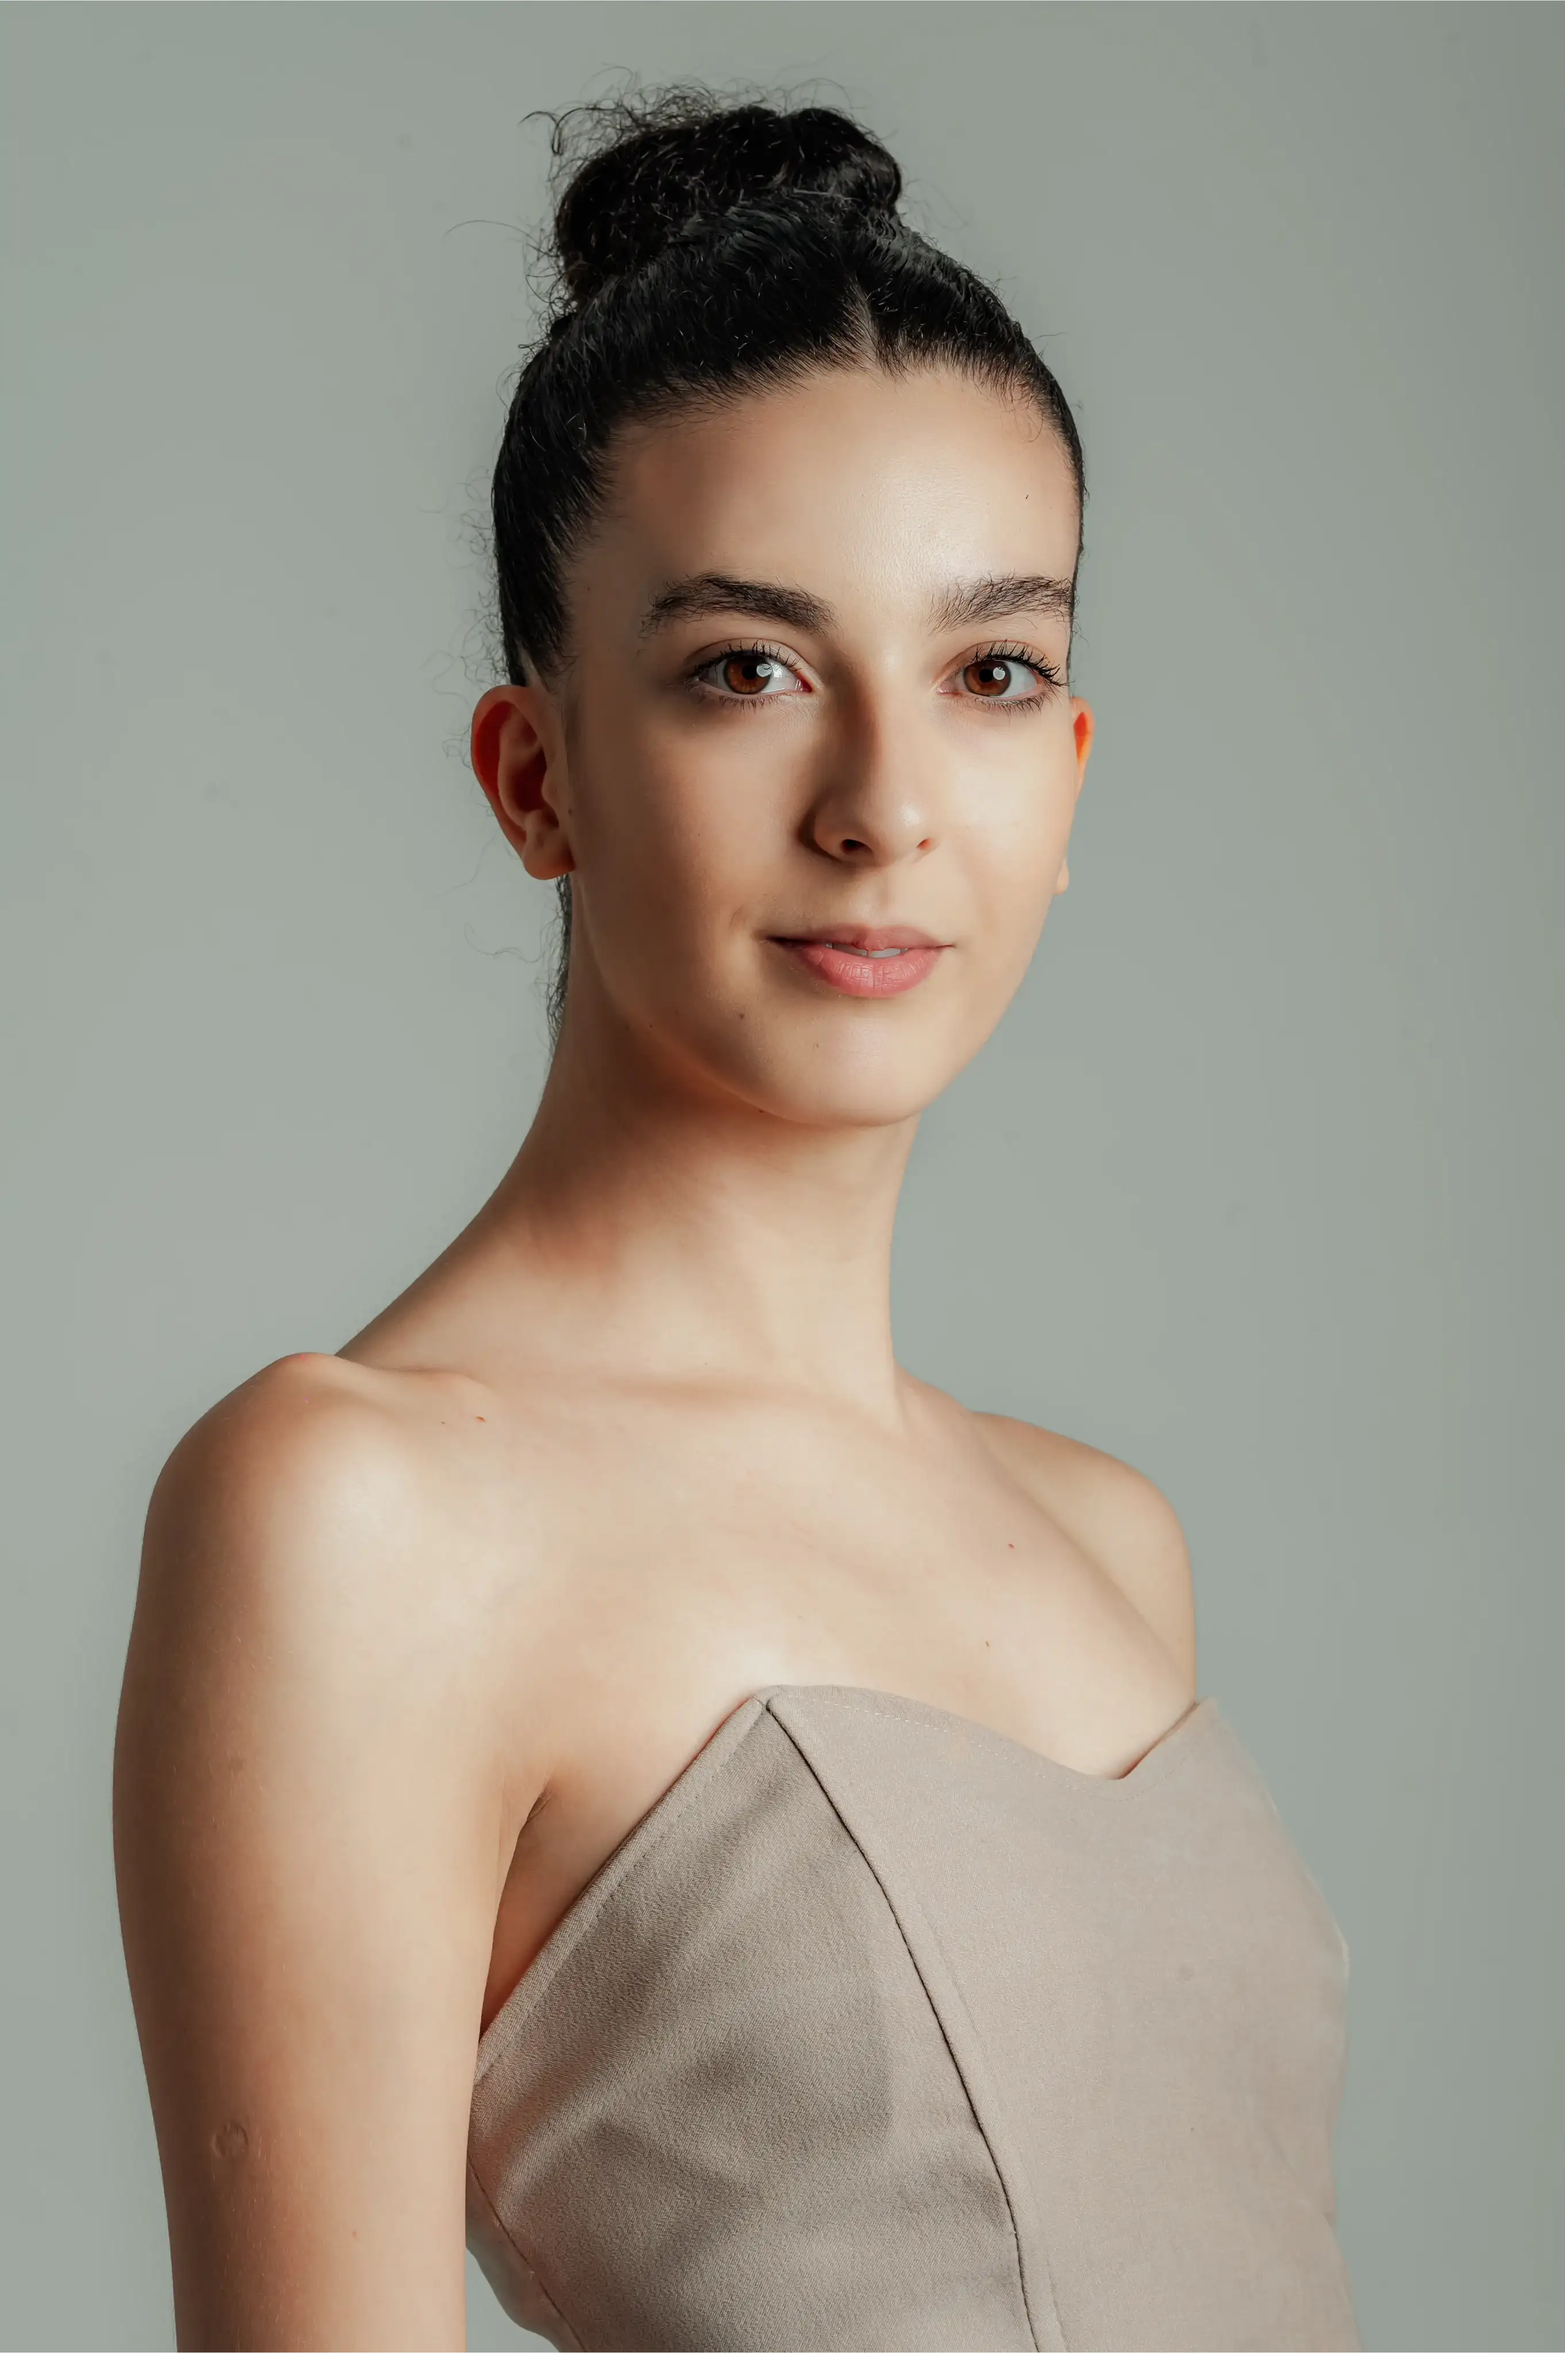
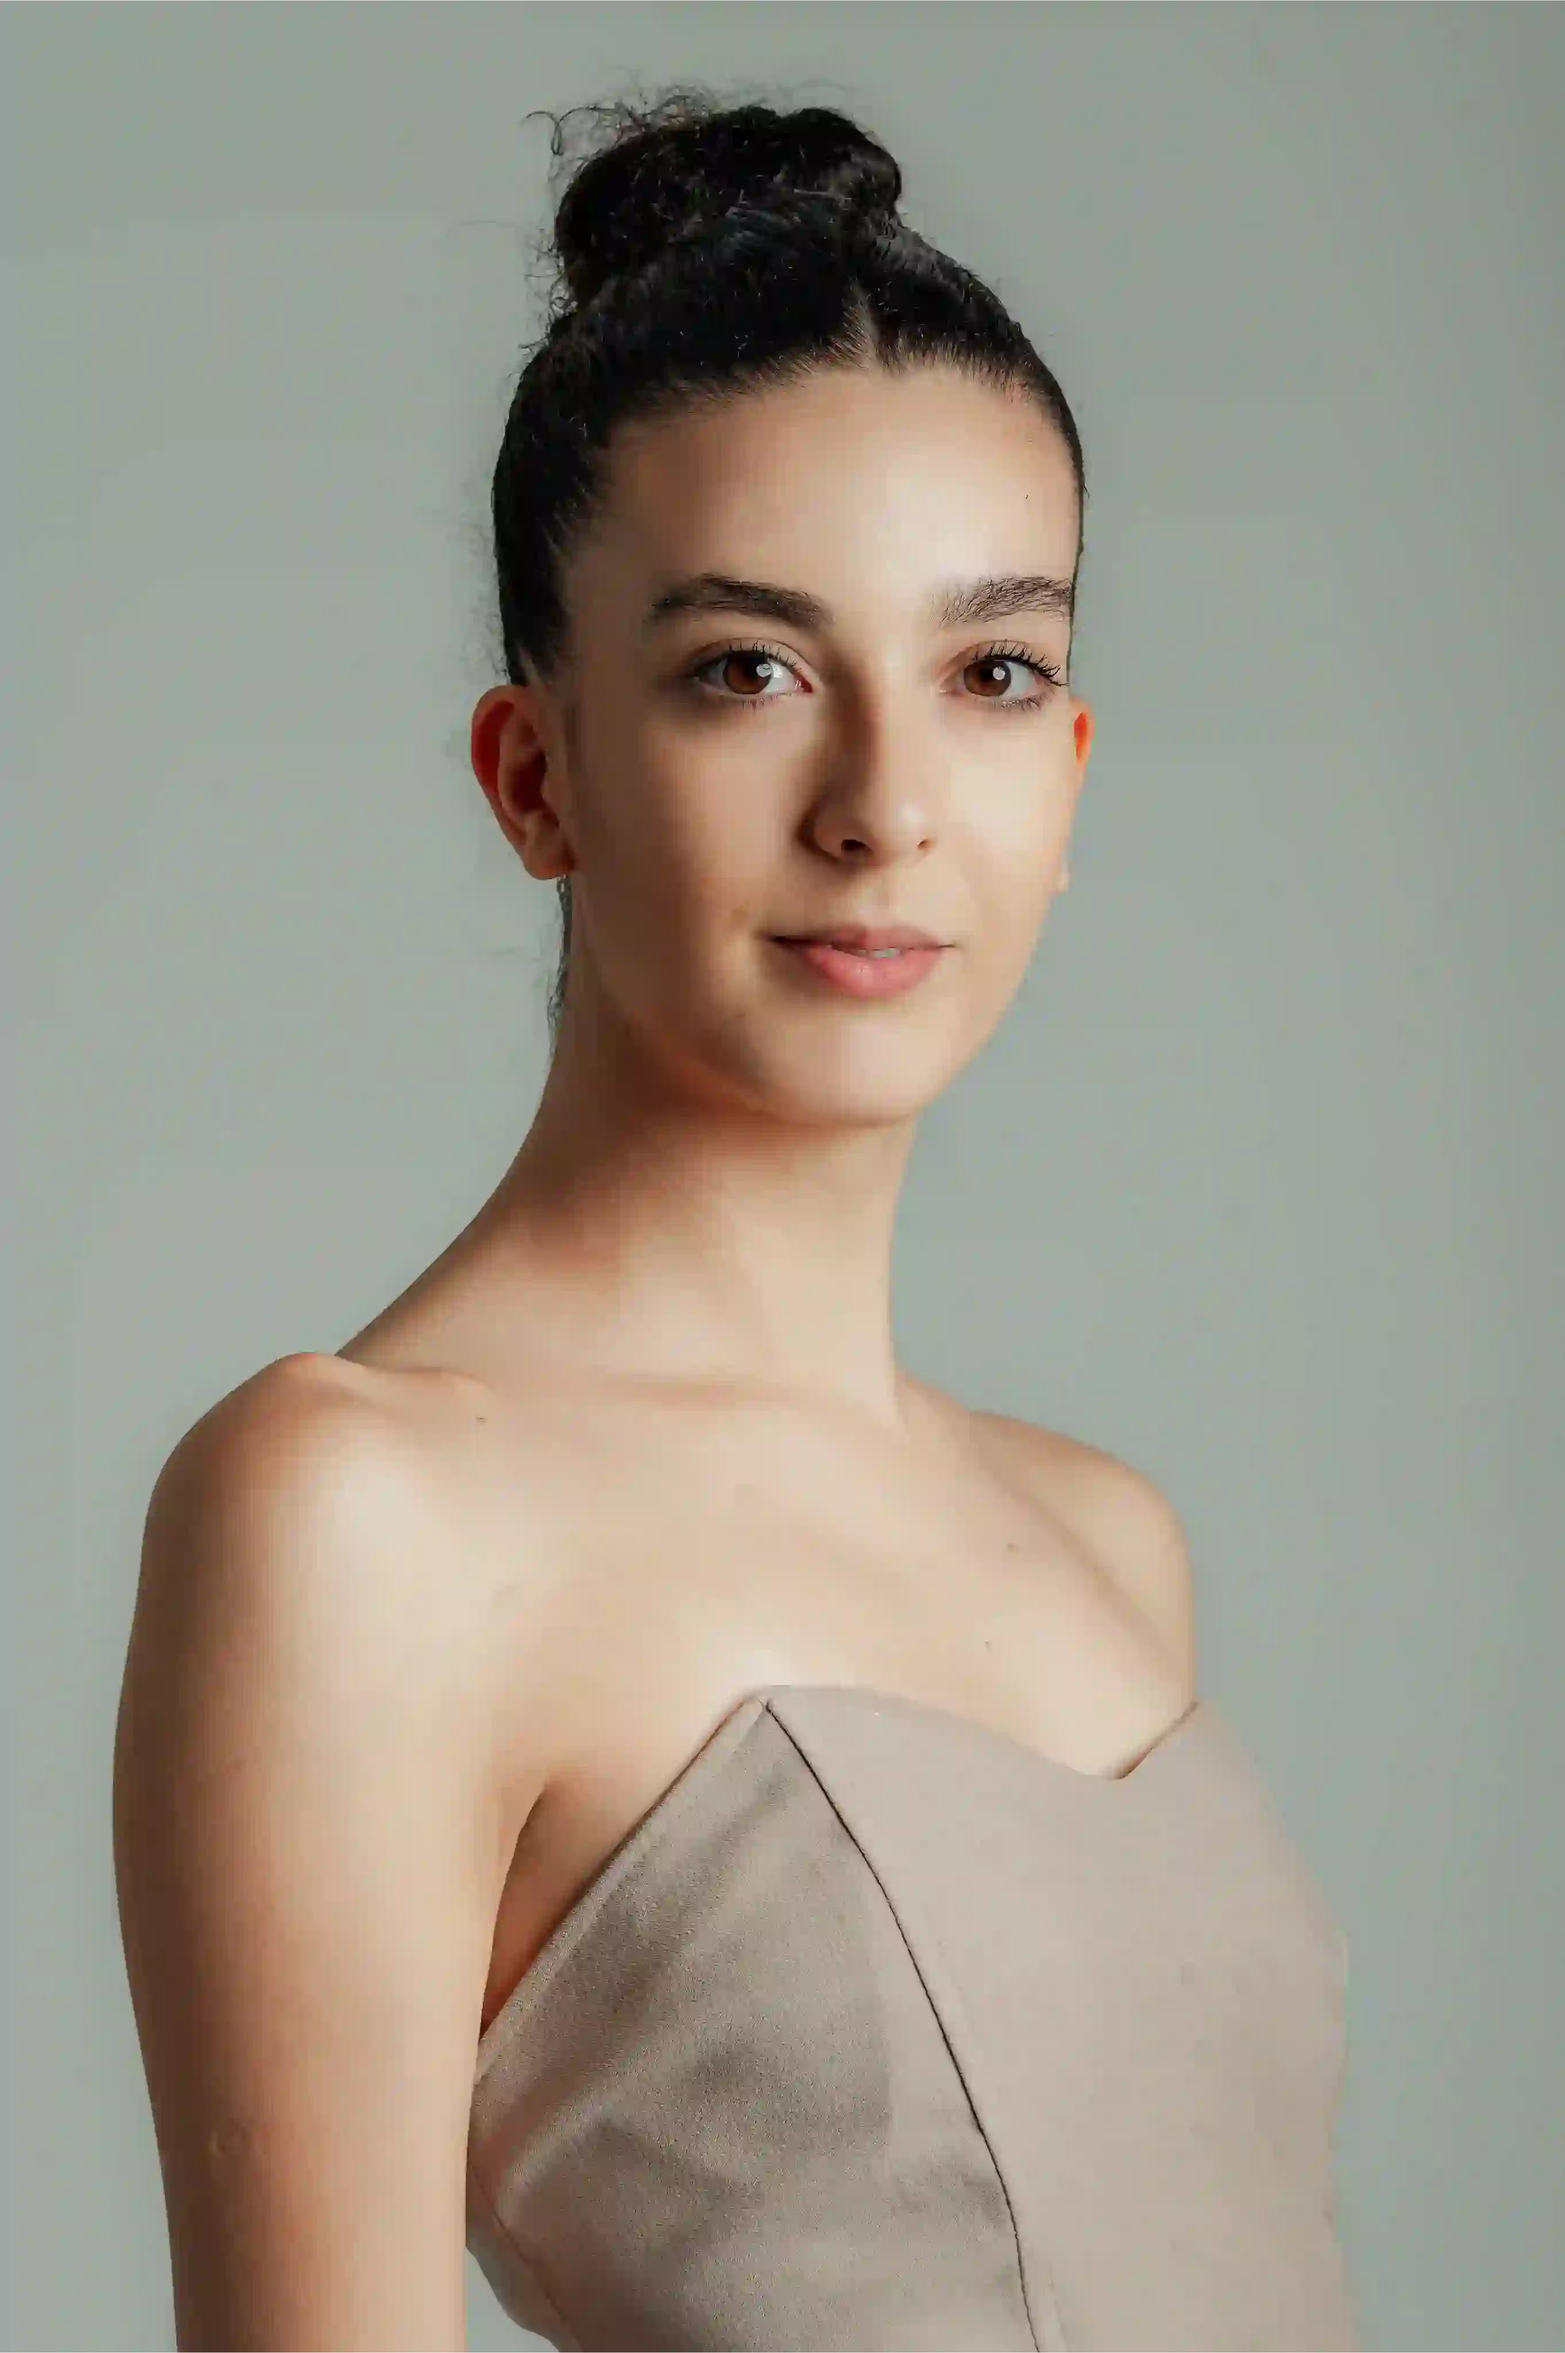
mais otimizações d efotos

Changed region(s): [[0.3119, 0.7811, 0.5615, 0.9998], [0.5927, 0.2499, 0.6862, 0.2812], [0.5303, 0.125, 0.5615, 0.1562]]

diff --git a/src/Polaroid/Polaroid.jsx b/src/Polaroid/Polaroid.jsx
@@ -10,38 +10,38 @@ import video1 from '../imagensDuda/Polaroid/VÍDEO1.mp4?v=2';
 import video2 from '../imagensDuda/Polaroid/VÍDEO3.mp4?v=2';
 
 
-export default function Polaroid(){
-    return(
+export default function Polaroid() {
+    return (
         <body className='container-polaroid container-fluid'>
-            <br/><br/>
+            <br /><br />
             <div className='container div-base-card2'>
                 <div class="card shadow">
-                    <video className='fotopolaroid' src={video1} loop muted autoPlay controls/>
+                    <video className='fotopolaroid' src={video1} loop muted autoPlay controls />
                 </div>
                 <div class="card shadow">
-                    <video className='fotopolaroid' src={video2} loop muted autoPlay controls/>
-                </div>
-            </div>
-            <div className='container div-base-card'>
-                <div class="card shadow">
-                    <img className='fotopolaroid' src={foto1} alt='foto1'  />
-                </div>
-                <div class="card shadow">
-                    <img className='fotopolaroid' src={foto2} alt='foto2'  />
-                </div>
-                <div class="card shadow">
-                    <img className='fotopolaroid' src={foto3} alt='foto3'  />
+                    <video className='fotopolaroid' src={video2} loop muted autoPlay controls />
                 </div>
             </div>
             <div className='container div-base-card'>
                 <div class="card shadow">
-                    <img className='fotopolaroid' src={foto4} alt='foto4'  />
+                    <img className='fotopolaroid' src={foto1} alt='foto1' />
                 </div>
                 <div class="card shadow">
-                    <img className='fotopolaroid' src={foto5} alt='foto5'  />
+                    <img className='fotopolaroid' src={foto2} alt='foto2' />
                 </div>
                 <div class="card shadow">
-                    <img className='fotopolaroid' src={foto6} alt='foto6'  />
+                    <img className='fotopolaroid' src={foto3} alt='foto3' />
+                </div>
+            </div>
+            <div className='container div-base-card'>
+                <div class="card shadow">
+                    <img className='fotopolaroid' src={foto4} alt='foto4' />
+                </div>
+                <div class="card shadow">
+                    <img className='fotopolaroid' src={foto5} alt='foto5' />
+                </div>
+                <div class="card shadow">
+                    <img className='fotopolaroid' src={foto6} alt='foto6' />
                 </div>
             </div>
         </body>

diff --git a/src/Navbar/Navbar.css b/src/Navbar/Navbar.css
@@ -1,24 +1,22 @@
-
-
 .navbar {
-  background-color:transparent;
-  width: 100%;  
-  height: auto; 
+  background-color: transparent;
+  width: 100%;
+  height: auto;
   align-items: center;
   justify-content: space-evenly;
   display: flex;
-  flex-wrap: wrap;  
+  flex-wrap: wrap;
   list-style: none;
   padding: 13px;
   position: fixed;
   margin: 0;
   top: 0;
-  overflow: hidden; 
+  overflow: hidden;
   left: 0;
   z-index: 9999;
-  
+
 }
- 
+
 
 /* Ícone do menu hamburguer só aparece no mobile */
 .menu-icon {
@@ -28,7 +26,7 @@
 }
 
 
- .nav-links {
+.nav-links {
   display: flex;
   flex-direction: row;
   align-items: center;
@@ -46,11 +44,11 @@
 
 
 .active-link a {
-  color:whitesmoke; 
-  text-decoration: none; 
+  color: whitesmoke;
+  text-decoration: none;
   font-weight: bold;
   transition: color 0.3s ease-in-out, text-shadow 0.3s ease-in-out;
- -webkit-text-stroke: 0.2px lightpink;
+  -webkit-text-stroke: 0.2px lightpink;
 }
 
 /* Configuração do menu no mobile */
@@ -59,60 +57,60 @@
     display: block;
     position: fixed;
     top: 30px;
-    right: 20px; 
+    right: 20px;
     color: white;
-    
+
   }
 
   .nav-links {
-      position: fixed;
-      top: 0;
-      right: -100%;
-      width: 250px;
-      height: 100vh;
-      background-color: rgba(0, 0, 0, 0.9);
-      flex-direction: column;
-      align-items: center;
-      padding-top: 2rem;
-      transition: right 0.3s ease-in-out;
-      z-index: 1002;
-      gap: 1.5rem;
-      padding-top: 6rem;
+    position: fixed;
+    top: 0;
+    right: -100%;
+    width: 250px;
+    height: 100vh;
+    background-color: rgba(0, 0, 0, 0.9);
+    flex-direction: column;
+    align-items: center;
+    padding-top: 2rem;
+    transition: right 0.3s ease-in-out;
+    z-index: 1002;
+    gap: 1.5rem;
+    padding-top: 6rem;
   }
 
   .nav-links.open {
-      right: 0;
+    right: 0;
   }
 
   .nav-links.closed {
-      right: -100%;
+    right: -100%;
   }
 
   .nav-links li {
-      list-style: none;
-      margin: 1rem 0;
+    list-style: none;
+    margin: 1rem 0;
   }
 
 
   .close-menu {
     position: absolute;
     top: 0px;
-    left: 20px; 
+    left: 20px;
     font-size: 30px;
     cursor: pointer;
     color: white;
-}
+  }
 
   /* Fundo escuro para modal */
   .menu-overlay {
-      position: fixed;
-      top: 0;
-      left: 0;
-      width: 100%;
-      height: 100vh;
-      background: rgba(0, 0, 0, 0.5);
-      display: block;
-      z-index: 1000;
+    position: fixed;
+    top: 0;
+    left: 0;
+    width: 100%;
+    height: 100vh;
+    background: rgba(0, 0, 0, 0.5);
+    display: block;
+    z-index: 1000;
   }
 
   .nav-links a {

diff --git a/src/Contact/Contact.jsx b/src/Contact/Contact.jsx
@@ -1,5 +1,5 @@
 import './Contact.css'
-import { MdWorkOutline,MdOutlineEmail } from "react-icons/md";
+import { MdWorkOutline, MdOutlineEmail } from "react-icons/md";
 import { IoLocationOutline } from "react-icons/io5";
 
 
@@ -34,13 +34,6 @@ export default function Contact() {
                     <h5>sgomes.eduarda@gmail.com</h5>
                 </div>
 
-                
-
-{/*                 <div className='flex-column div-job'>
-                    <MdWorkOutline  className='icone-email' />
-                    <h5>FORD MODELS</h5>
-                </div> */}
-
                 <div className='flex-column div-andress'>
                     <IoLocationOutline className='icone-email' />
                     <h5>Minas Gerais, Brazil</h5>
@@ -49,7 +42,7 @@ export default function Contact() {
 
             <a className="contato-a">Copyright © 2025 à <strong>Eduarda Gomes</strong>. Todos os direitos reservados.</a>
 
-<br/>
+            <br />
 
 
 

diff --git a/src/Book/Book.jsx b/src/Book/Book.jsx
@@ -27,6 +27,7 @@ import f25 from '../imagensDuda/book/25.webp'
 
 
 export default function Book() {
+
     return (
         <body className='container-book container-fluid'>
             <br /><br />
@@ -93,7 +94,7 @@ export default function Book() {
             </div>
 
             <div className='container-fluid div-base-card-book'>
-            <div class="card-book shadow">
+                <div class="card-book shadow">
                     <img className='fotobook' src={f15} alt='foto2' />
                 </div>
 
